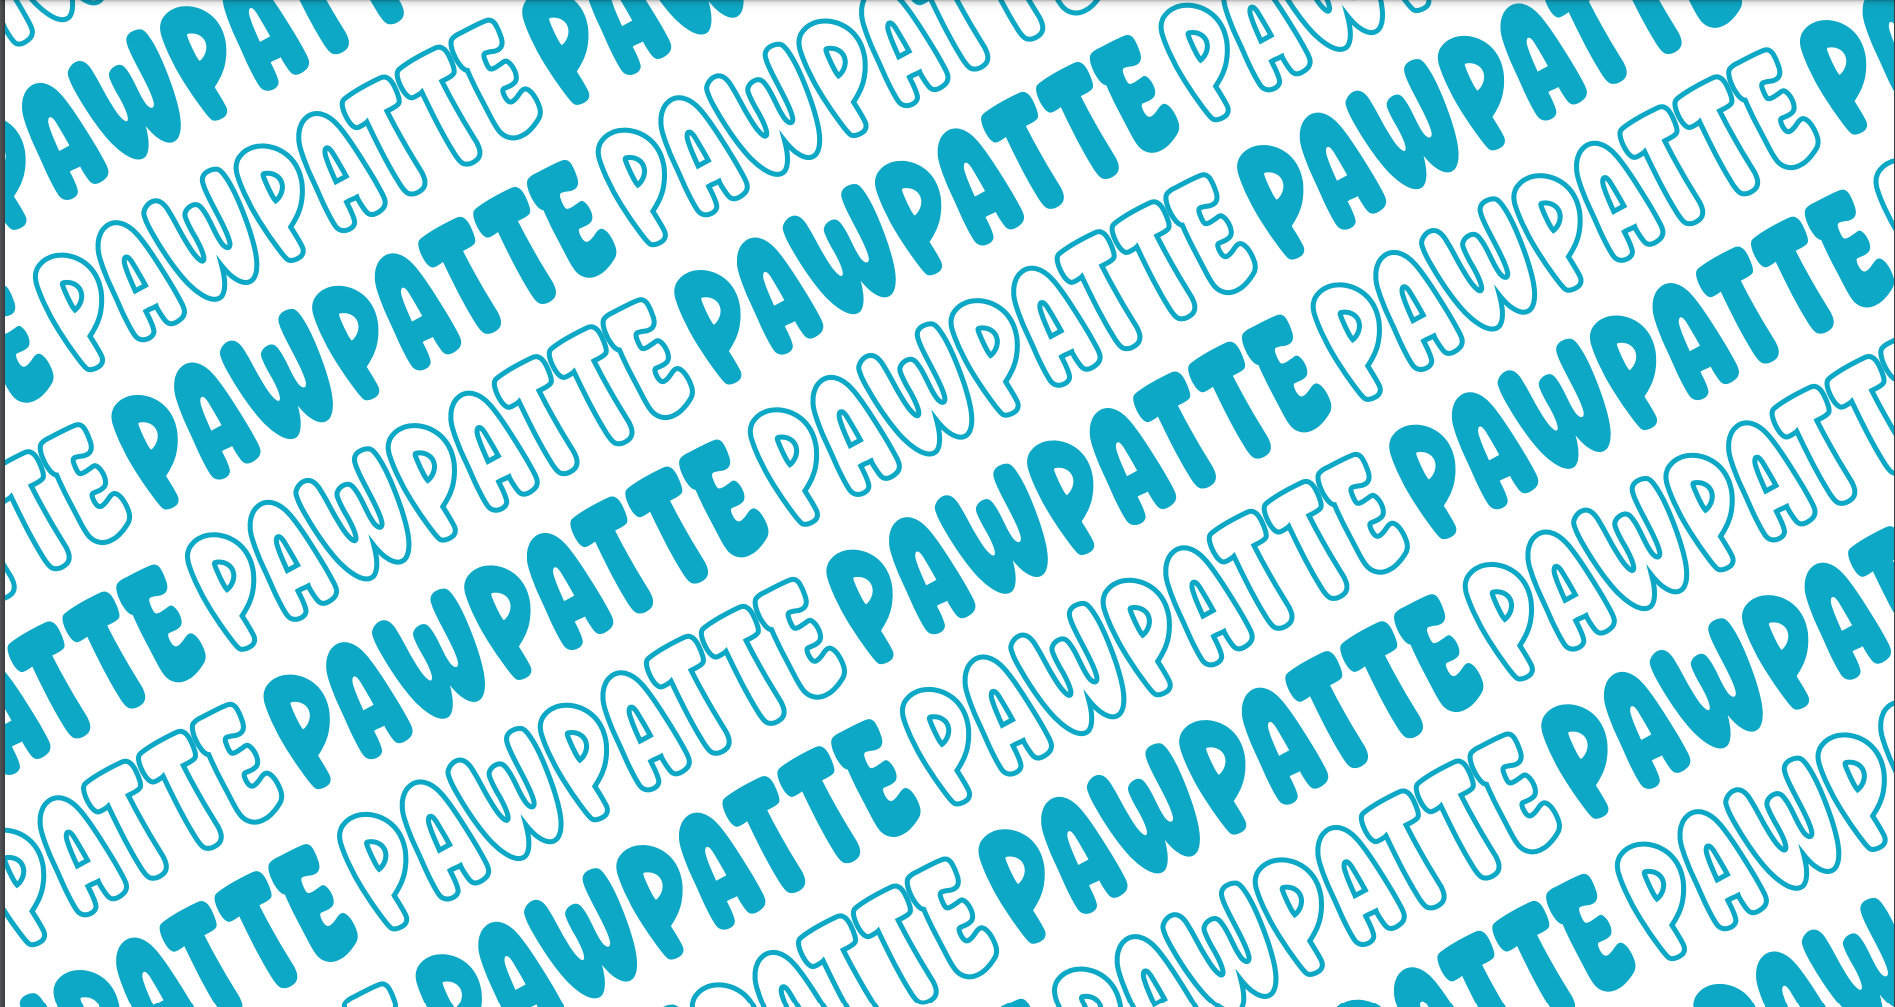
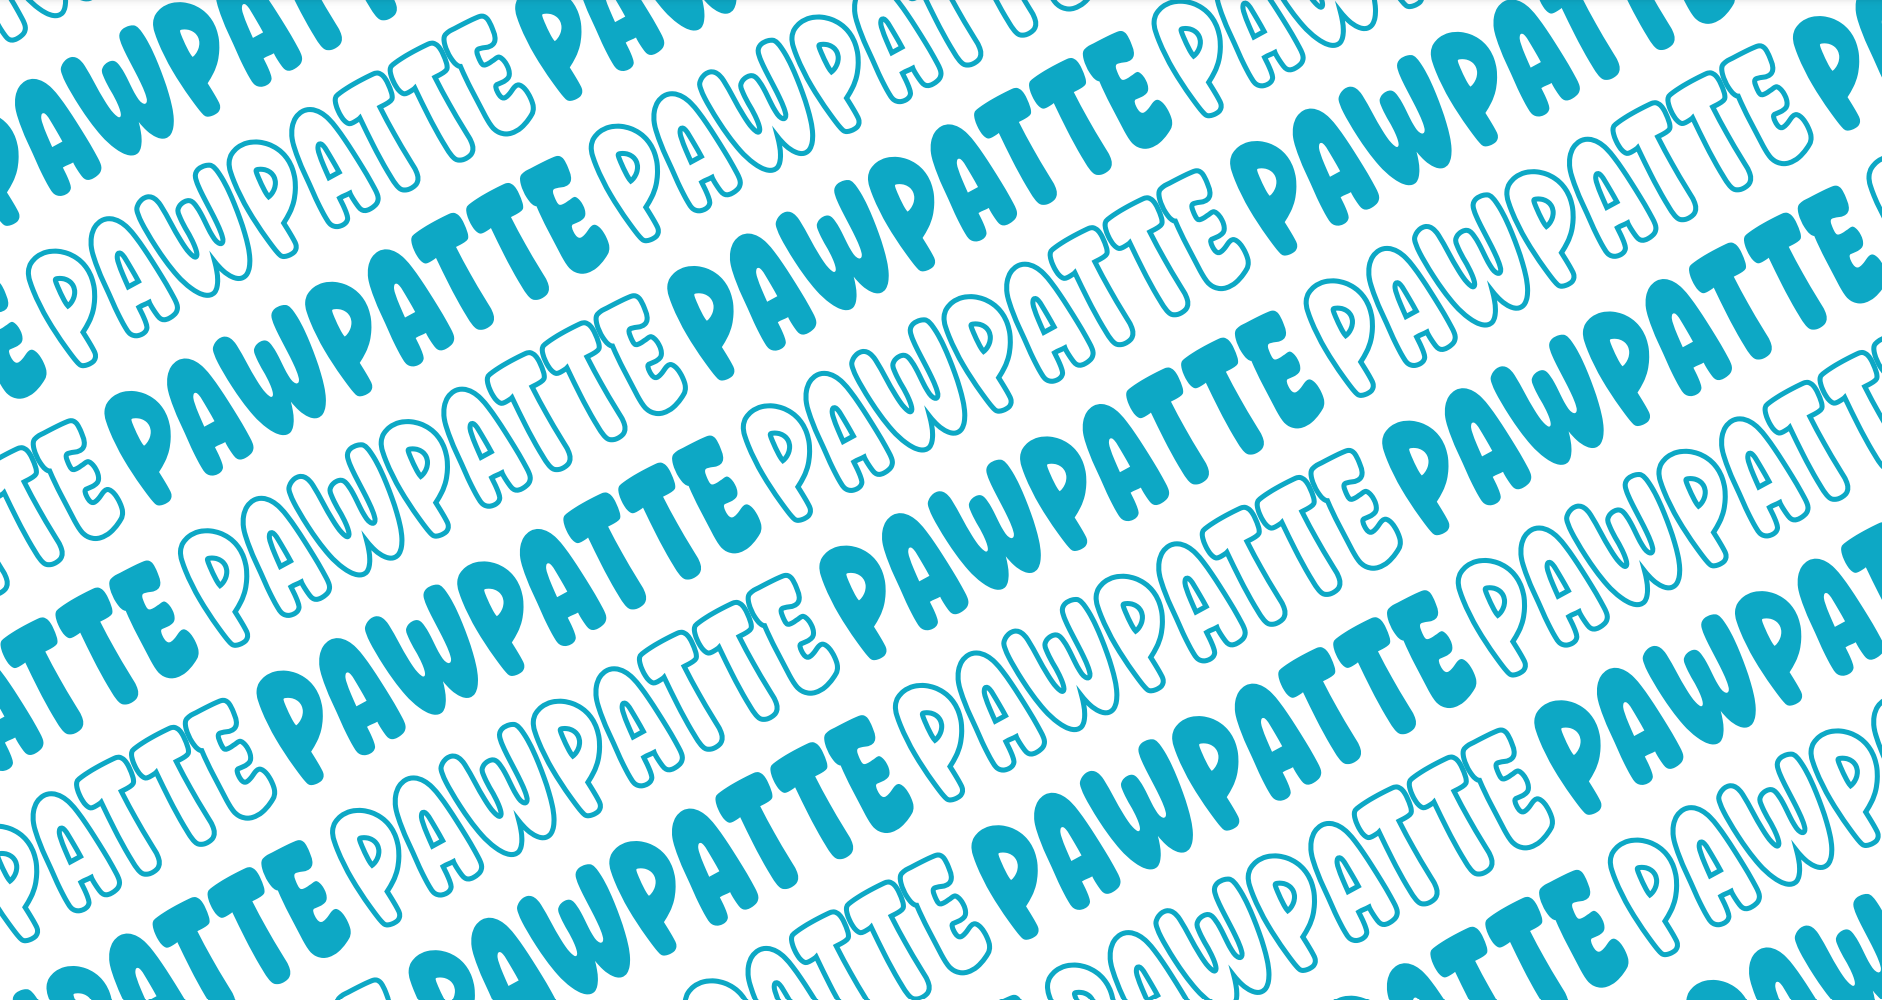
first commit

diff --git a/app/layout.tsx b/app/layout.tsx
@@ -32,7 +32,7 @@ export default async function RootLayout({
             dark:bg-[url(/assets/magicdark.svg)]
              transition-all 
      pb-0 bg-[url(/assets/b1.png)]
-      bg-no-repeat bg-fixed max-sm:pb-[110px]   
+       bg-fixed max-sm:pb-[110px]   
     
      pt-[100px] 
     
